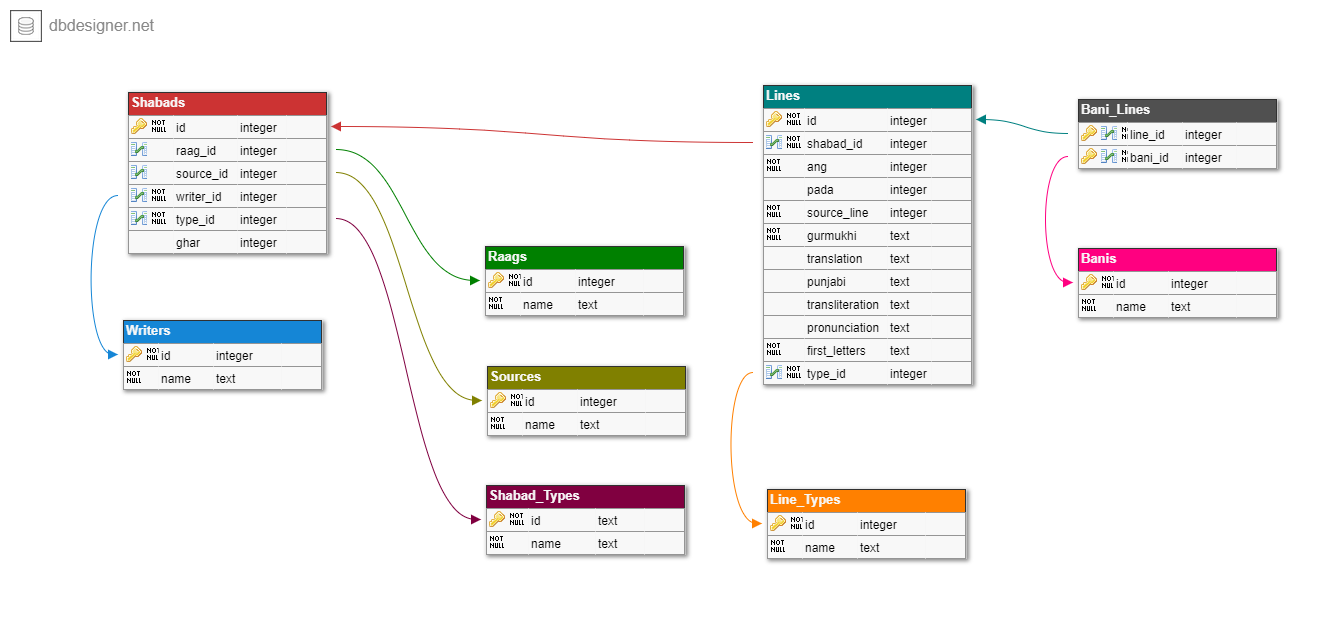
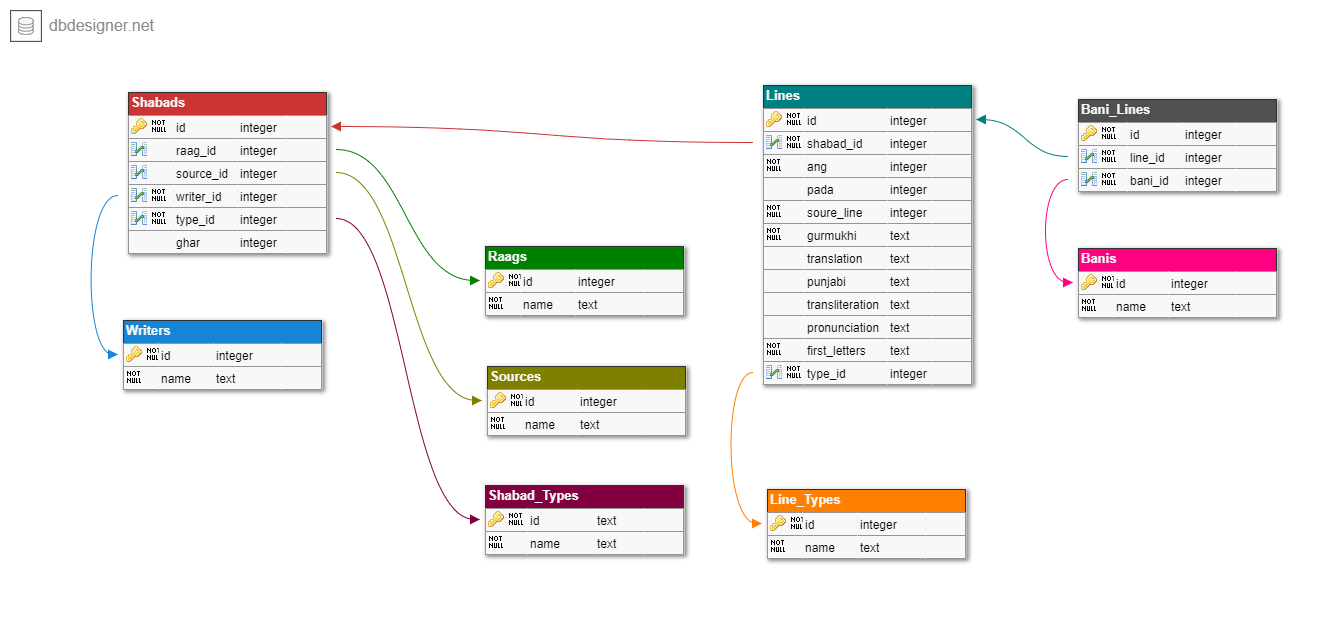
schema: `id` in `baniLines` to preserve order

diff --git a/migrations/schema.js b/migrations/schema.js
@@ -57,9 +57,10 @@ exports.up = knex => Promise.all( [
   } ),
 
   knex.schema.createTable( 'bani_lines', table => {
+    table.increments( 'id' ).primary()
     table.integer( 'line_id' ).references( 'id' ).inTable( 'lines' )
     table.integer( 'bani_id' ).references( 'id' ).inTable( 'banis' )
-    table.primary( [ 'line_id', 'bani_id' ] )
+    table.unique( [ 'line_id', 'bani_id' ] )
   } ),
 ] )
 
